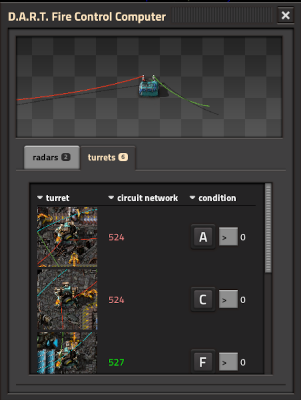
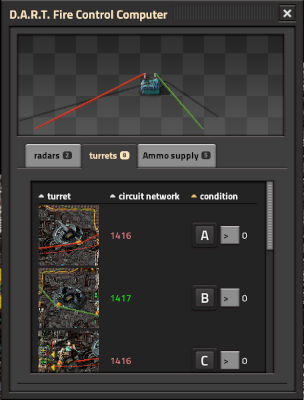
add ammo stock monitoring feature to online docu

diff --git a/README.md b/README.md
@@ -55,6 +55,15 @@ To use D.A.R.T., it must be configured (per platform). This has to be done in th
 **Hint**
 D.A.R.T. controls a turret by setting its circuit network condition to 0 resp. 1.
 
+## Monitoring the ammunition stock (new in 1.1)
+
+D.A.R.T. has the ability to monitor the ammunition stock of a platform (located in the hub) and issues warnings as soon 
+as it falls below a configurable threshold. The thresholds are configurable per platform and ammo-type possibly used by 
+the turrets connected to the FCC. If you don't use a particular ammo-type you can disable the warnings for this type.
+
+![configure thresholds](https://github.com/xyzzycgn/dart/blob/main/doc/dart-configure-main-ammos.png?raw=true)
+
+
 ## Compatibility
 This mod is compatible to vanilla game (= space age) and other mods introducing new turrets derived from 
 ammo-turret prototype and/or new ammunition for these turrets.
